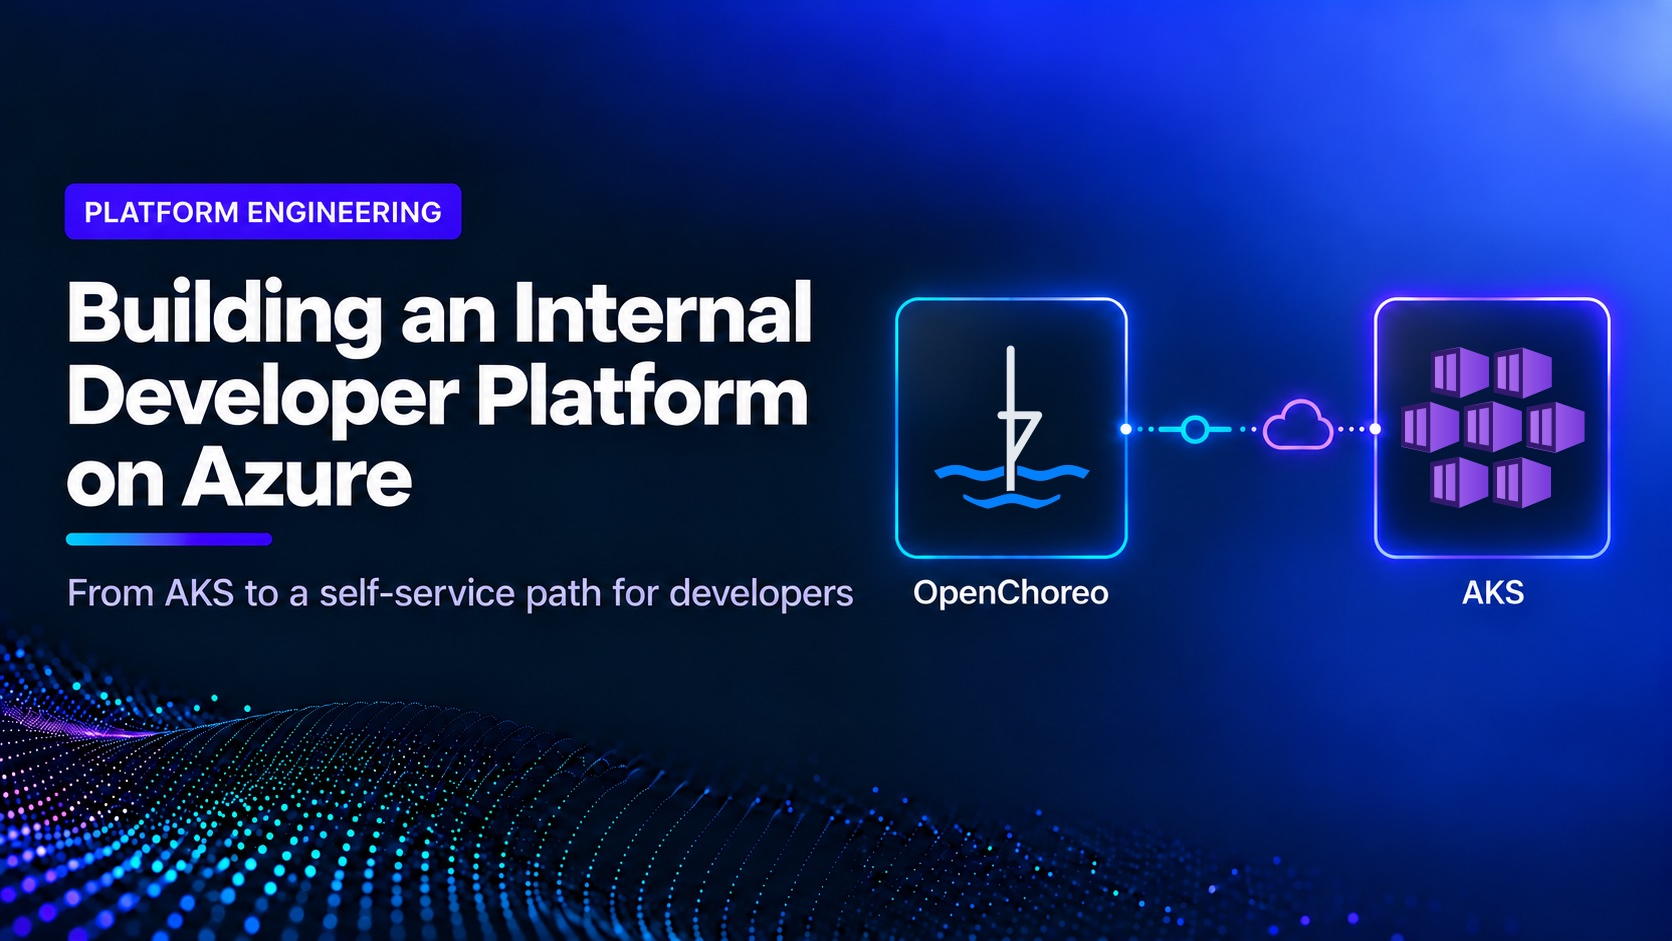
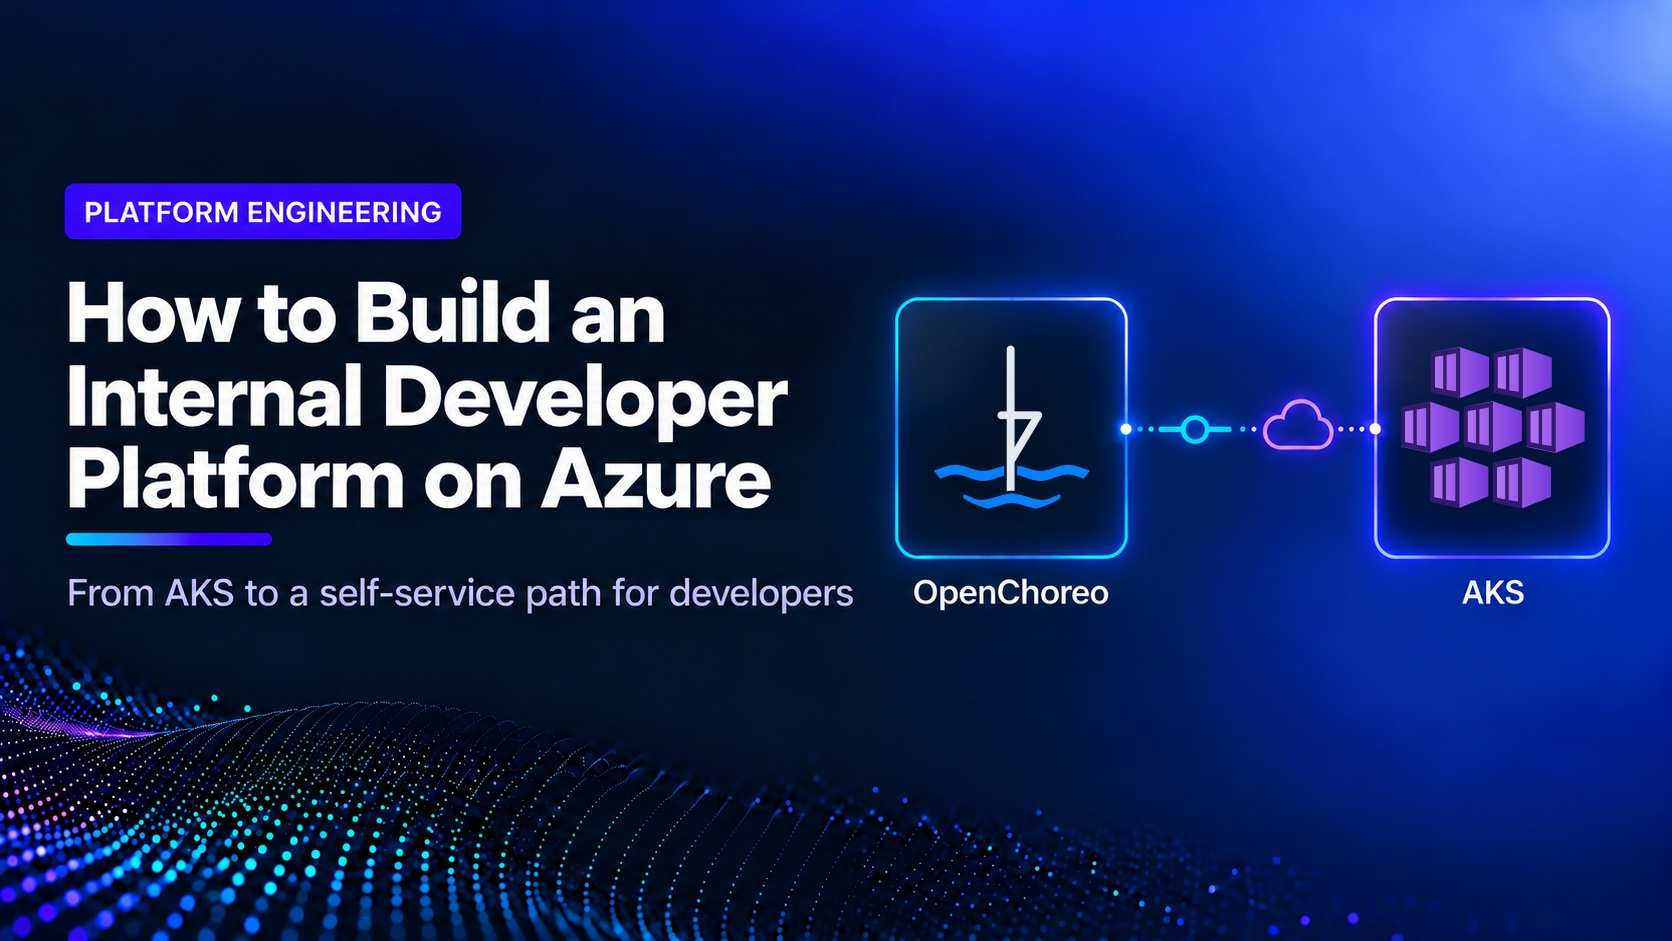
docs: retitle the Azure blog post as a how-to (#973)
* docs: retitle the Azure blog post as a how-to

* docs: move the Azure blog post to a how-to slug

Redirect the old URL to the new one, since the post is already shared.

---------

Changed region(s): [[0.0311, 0.2774, 0.4976, 0.5547]]

diff --git a/docusaurus.config.ts b/docusaurus.config.ts
@@ -92,6 +92,13 @@ const config: Config = {
     [
       '@docusaurus/plugin-client-redirects',
       {
+        // Blog posts whose slug changed after publishing.
+        redirects: [
+          {
+            from: '/blog/building-an-internal-developer-platform-on-azure',
+            to: '/blog/how-to-build-an-internal-developer-platform-on-azure/',
+          },
+        ],
         // Docusaurus serves the latest docs version unprefixed (/docs/foo),
         // so /docs/<latestVersion>/foo 404s. For each real /docs/foo page,
         // register /docs/<latestVersion>/foo as an alias that redirects to it.
